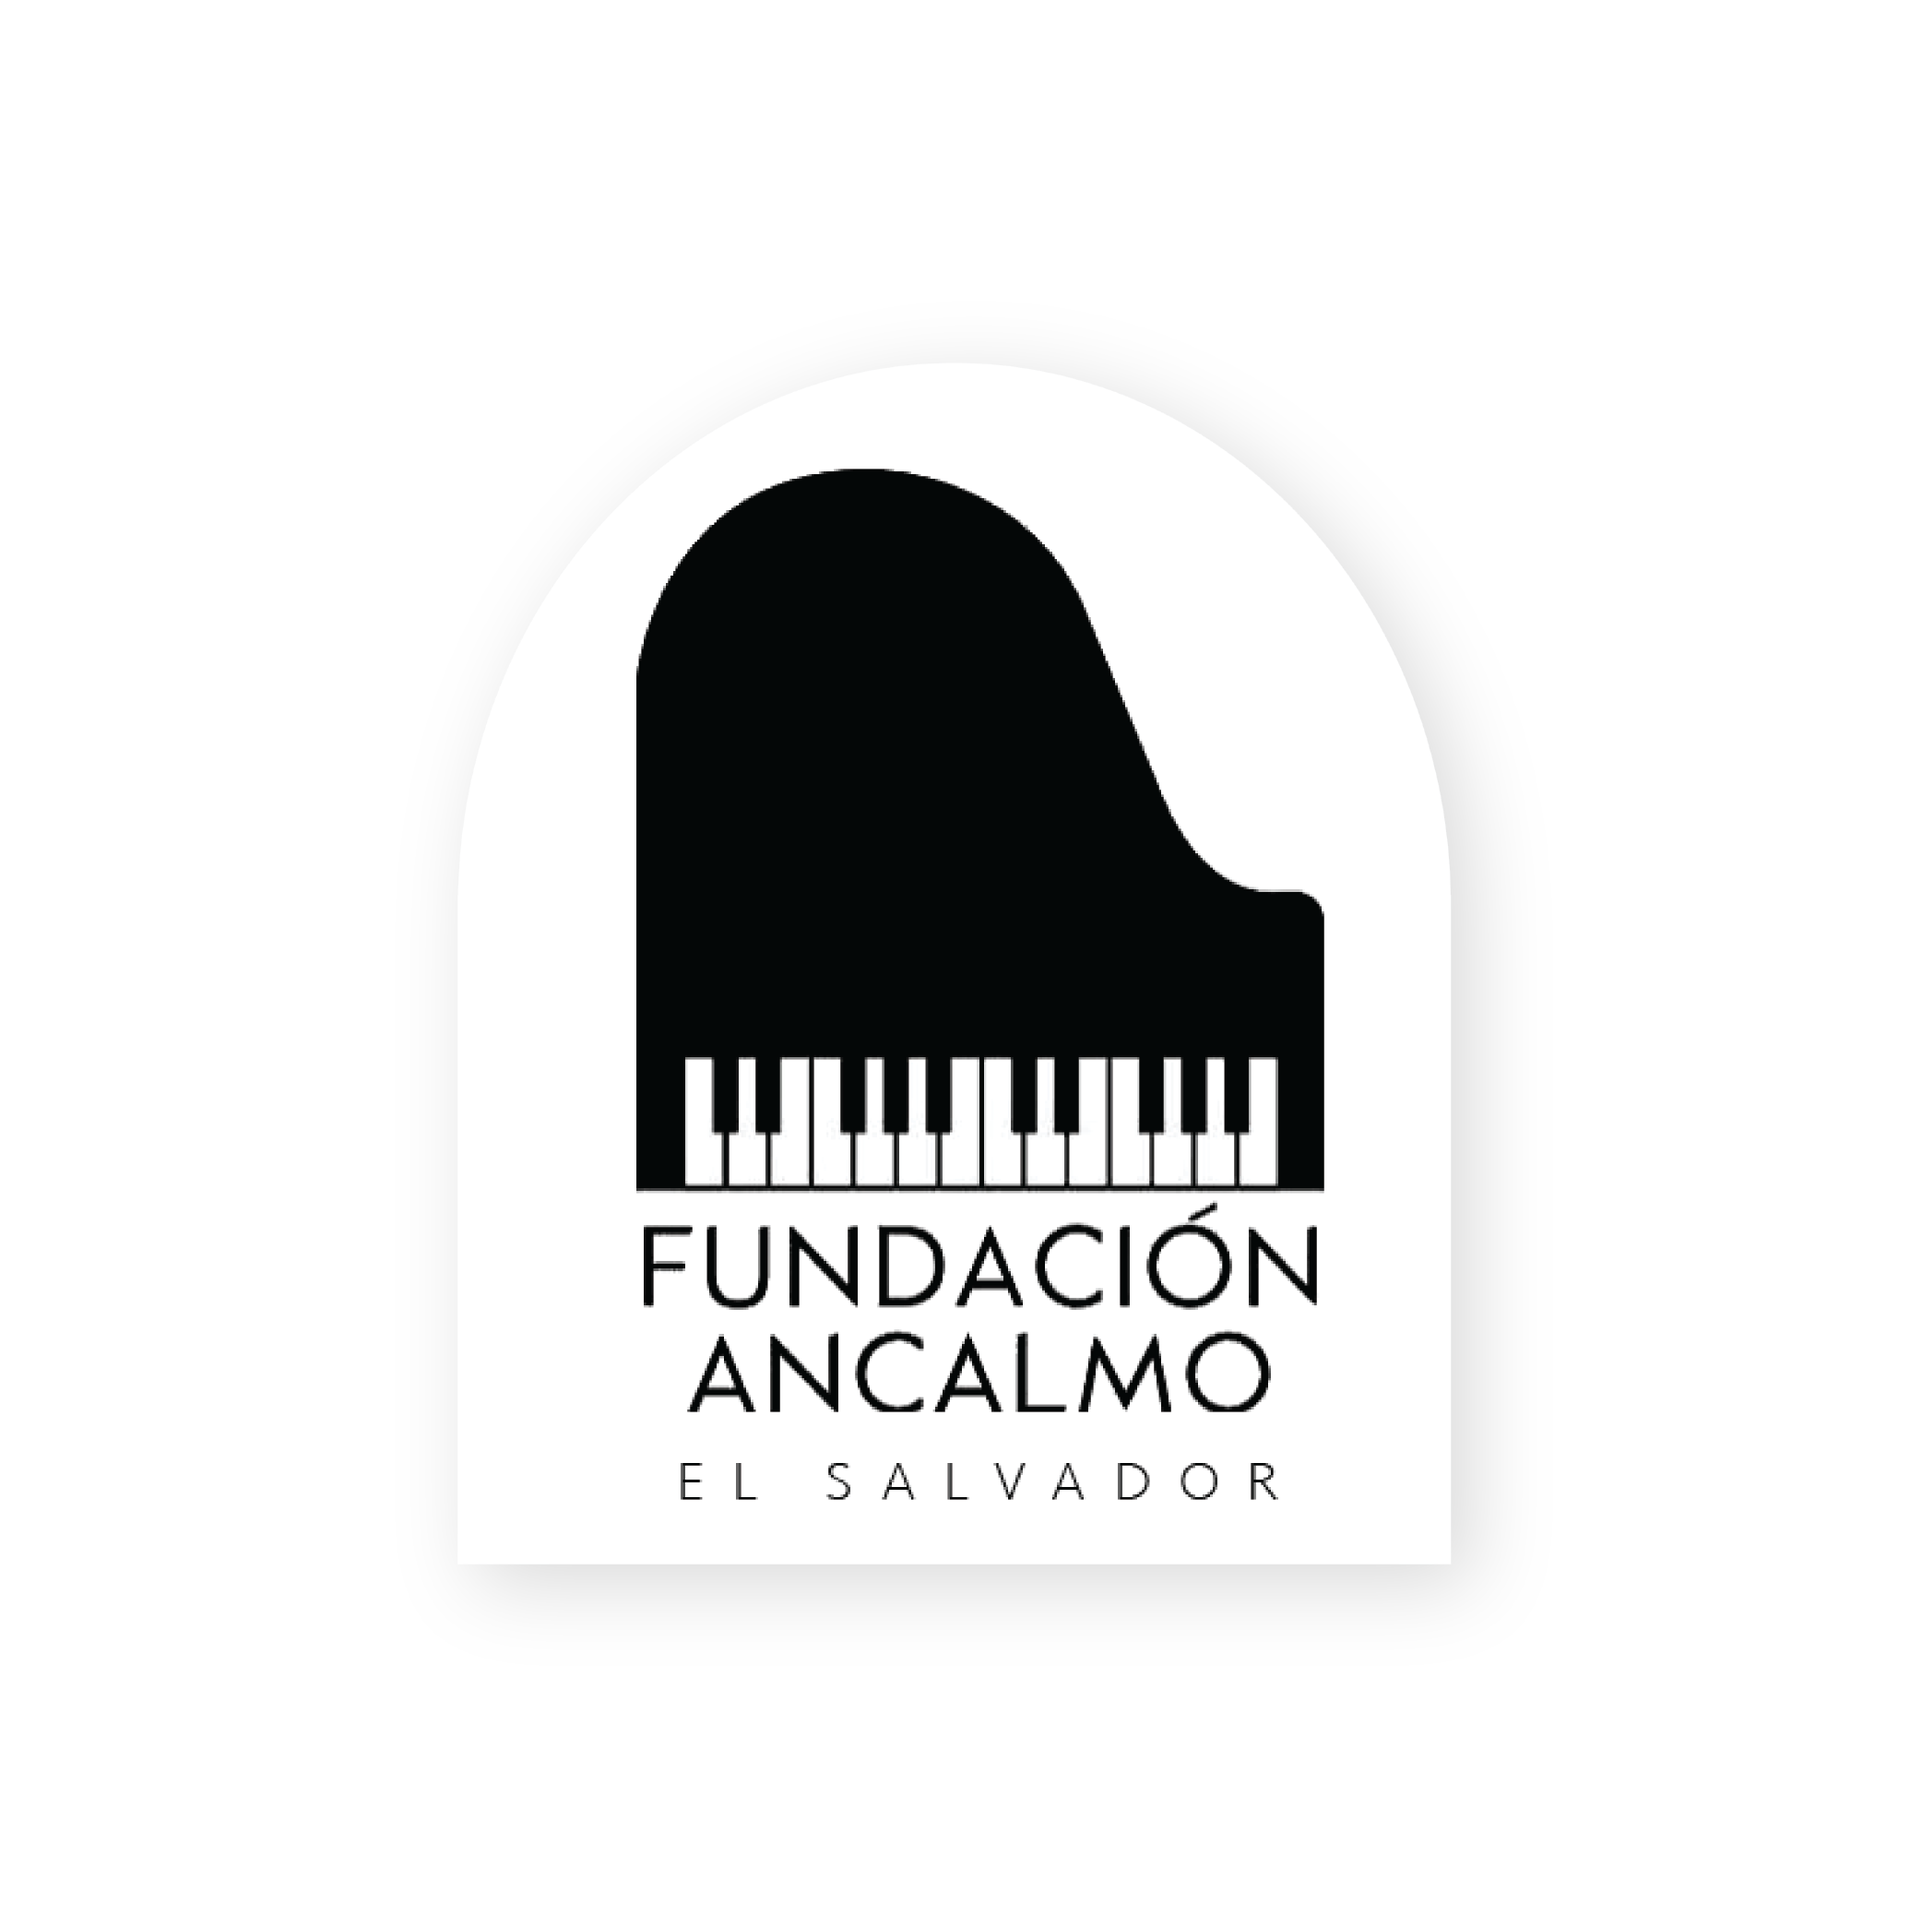
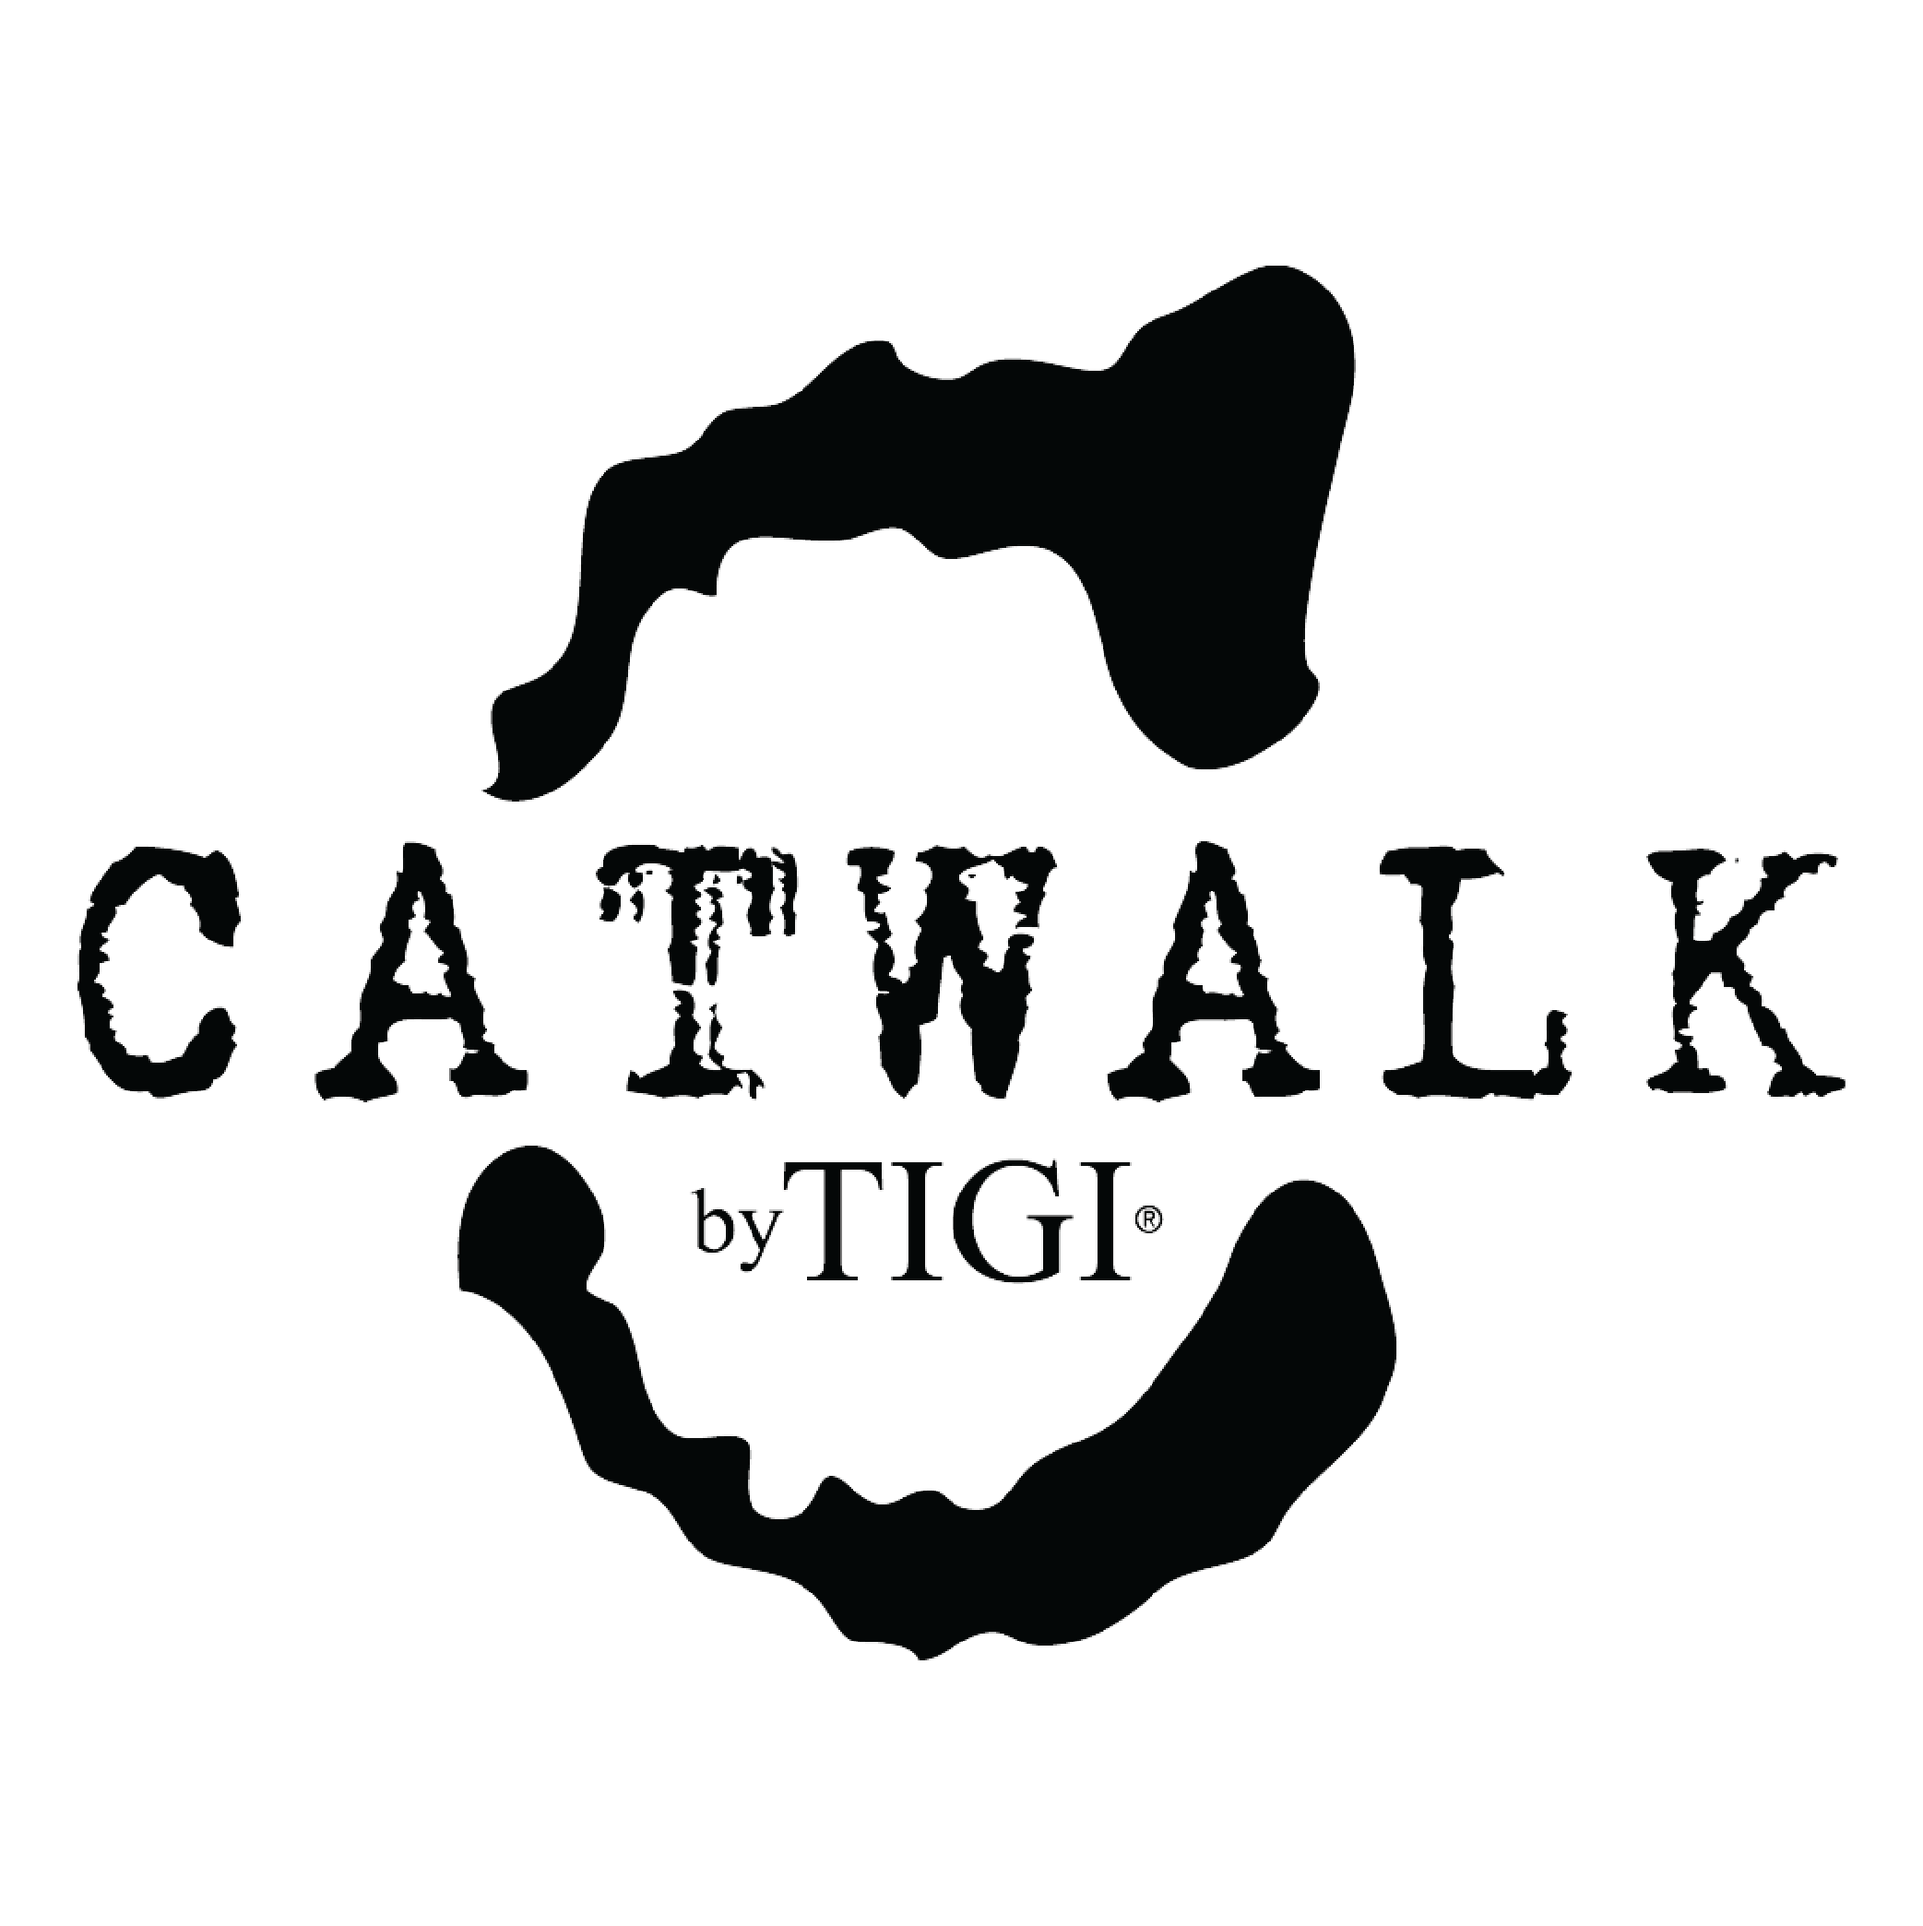
Imagenes de clientes con filtro

Changed region(s): [[0.156, 0.1245, 0.7486, 0.8716], [0.7174, 0.4358, 0.9669, 0.5915], [0.0312, 0.4358, 0.1248, 0.5915]]

diff --git a/style.css b/style.css
@@ -876,8 +876,13 @@ li {
     -ms-flex-pack: center;
     justify-content: center;
     padding: 5px;
+
 }
 
+.single-clients-logo img{
+    filter: grayscale(100%)  opacity(60%);   
+    
+}
 /* Blog Area CSS */
 
 .fplus-single-blog-area {

diff --git a/index.php b/index.php
@@ -416,7 +416,7 @@
                             for($i = 0; $i < 12; $i++){
                         ?>
                         <div class="single-clients-logo">
-                            <a href="#"><img src="img/clients-img/<?= ($i+1) ?>.png" alt=""></a>
+                            <img src="img/clients-img/<?= ($i+1) ?>.png" alt="">
                         </div>
                         <?php 
                             }
